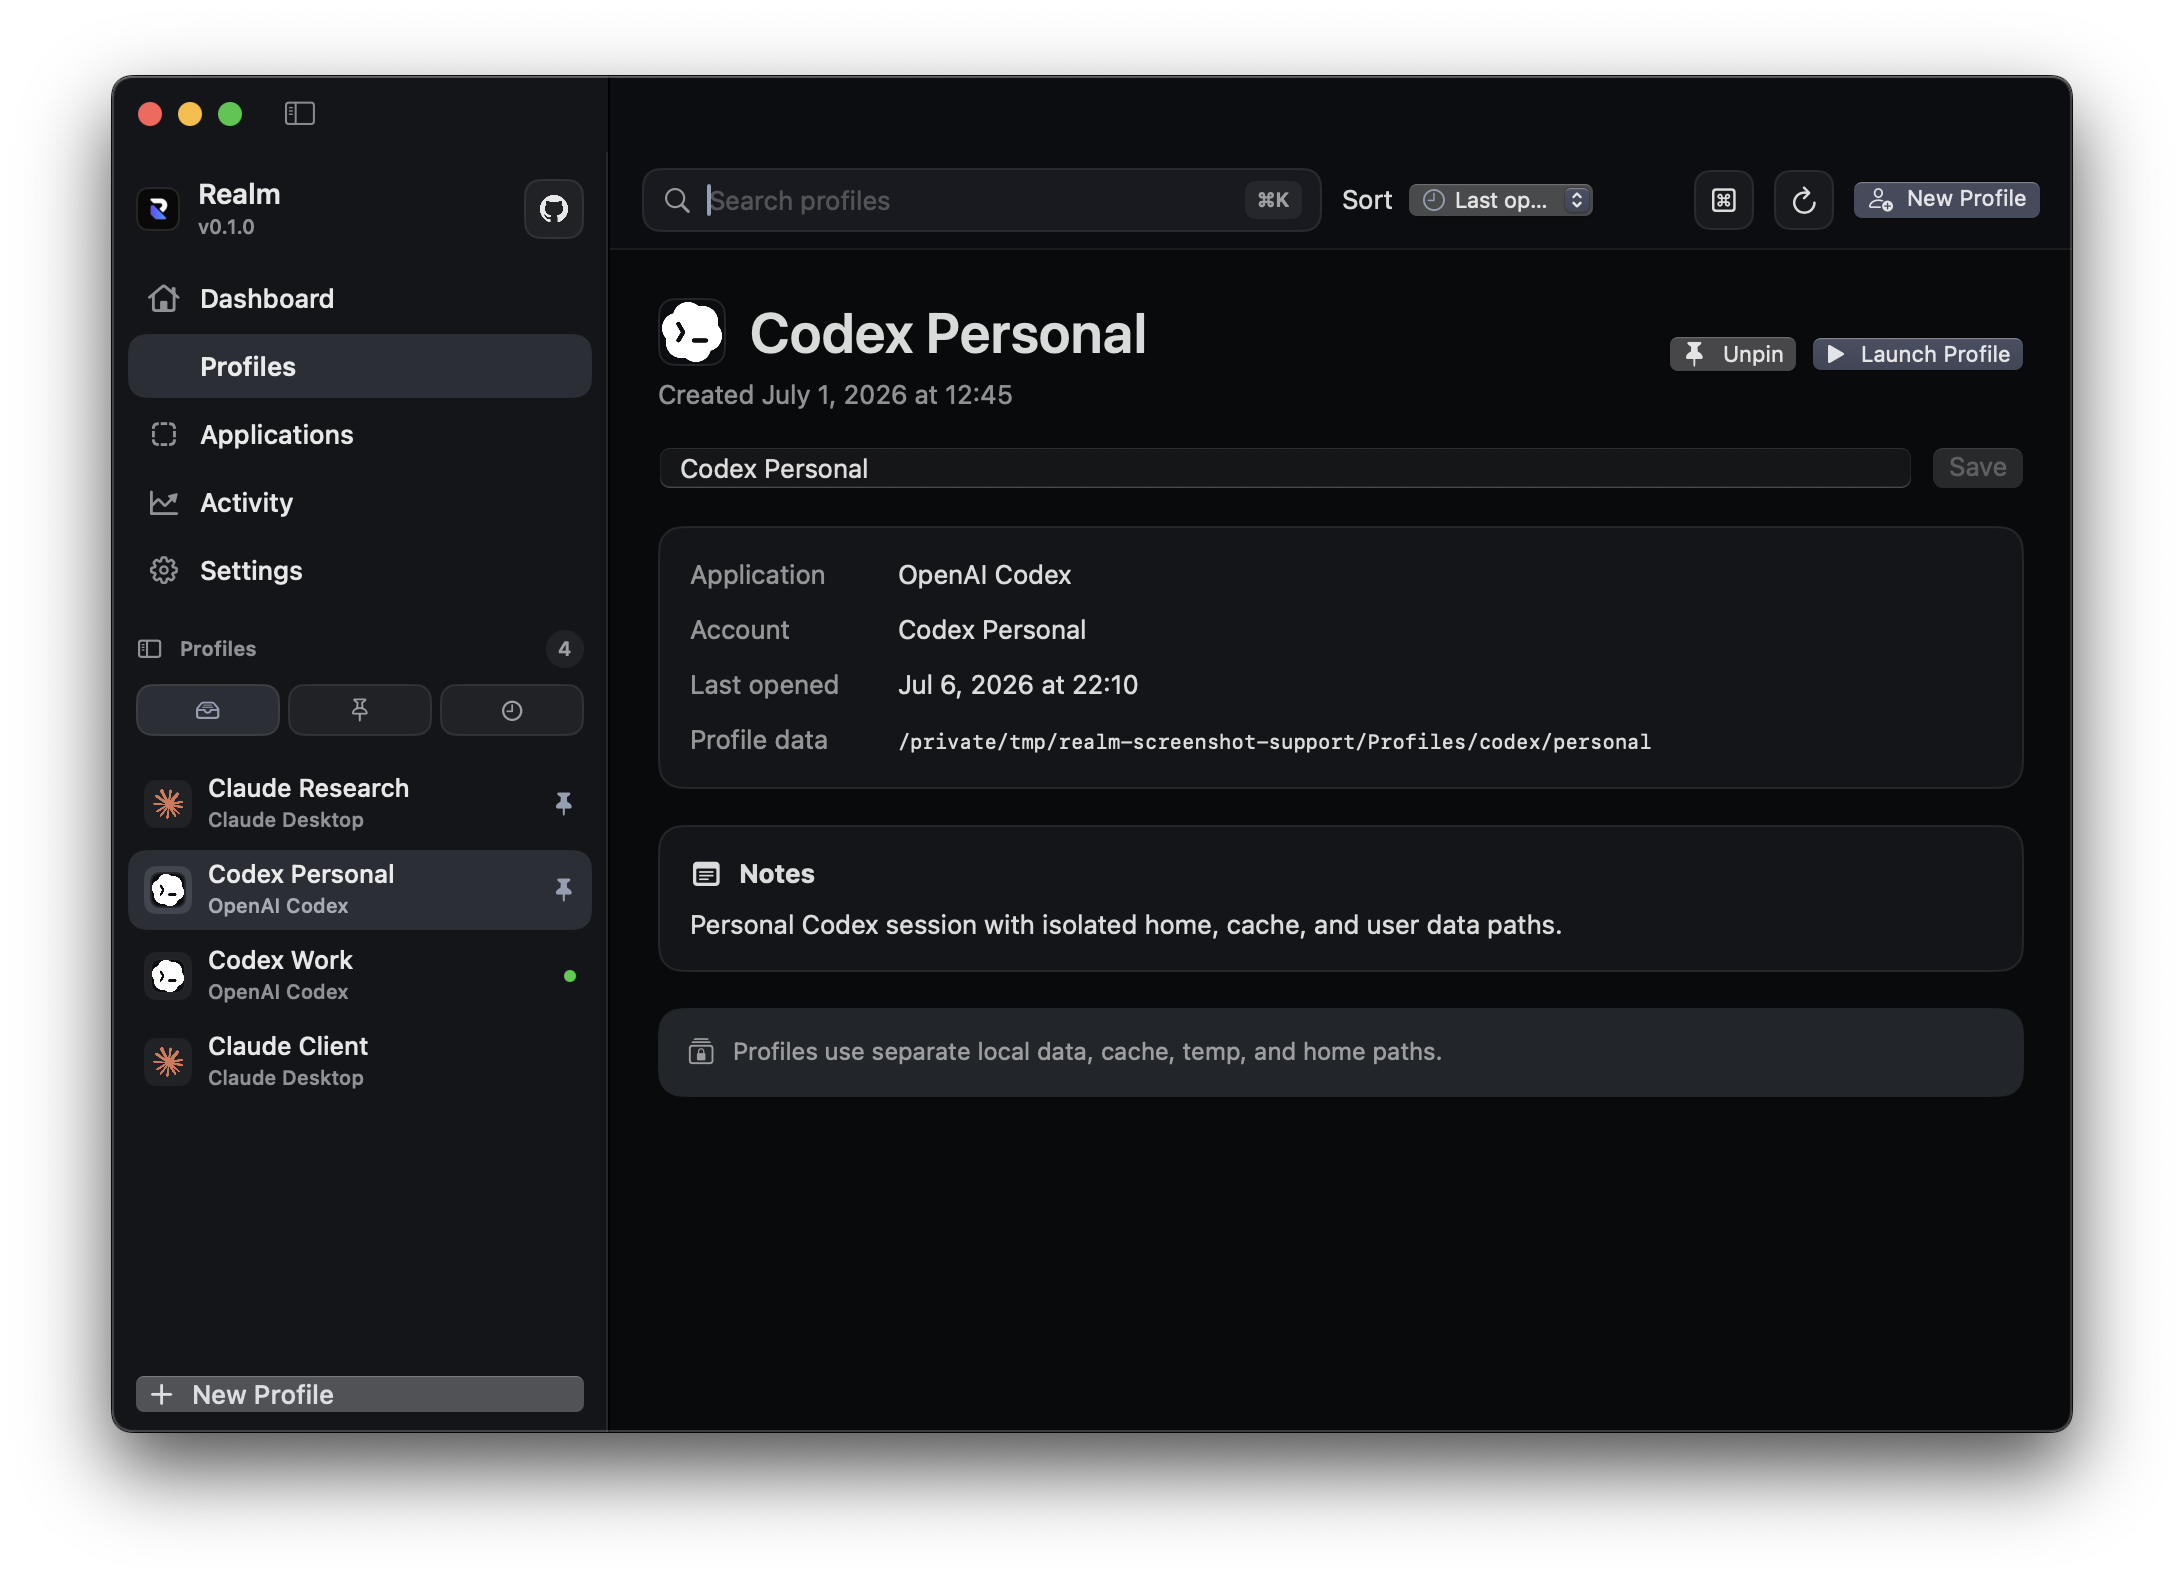
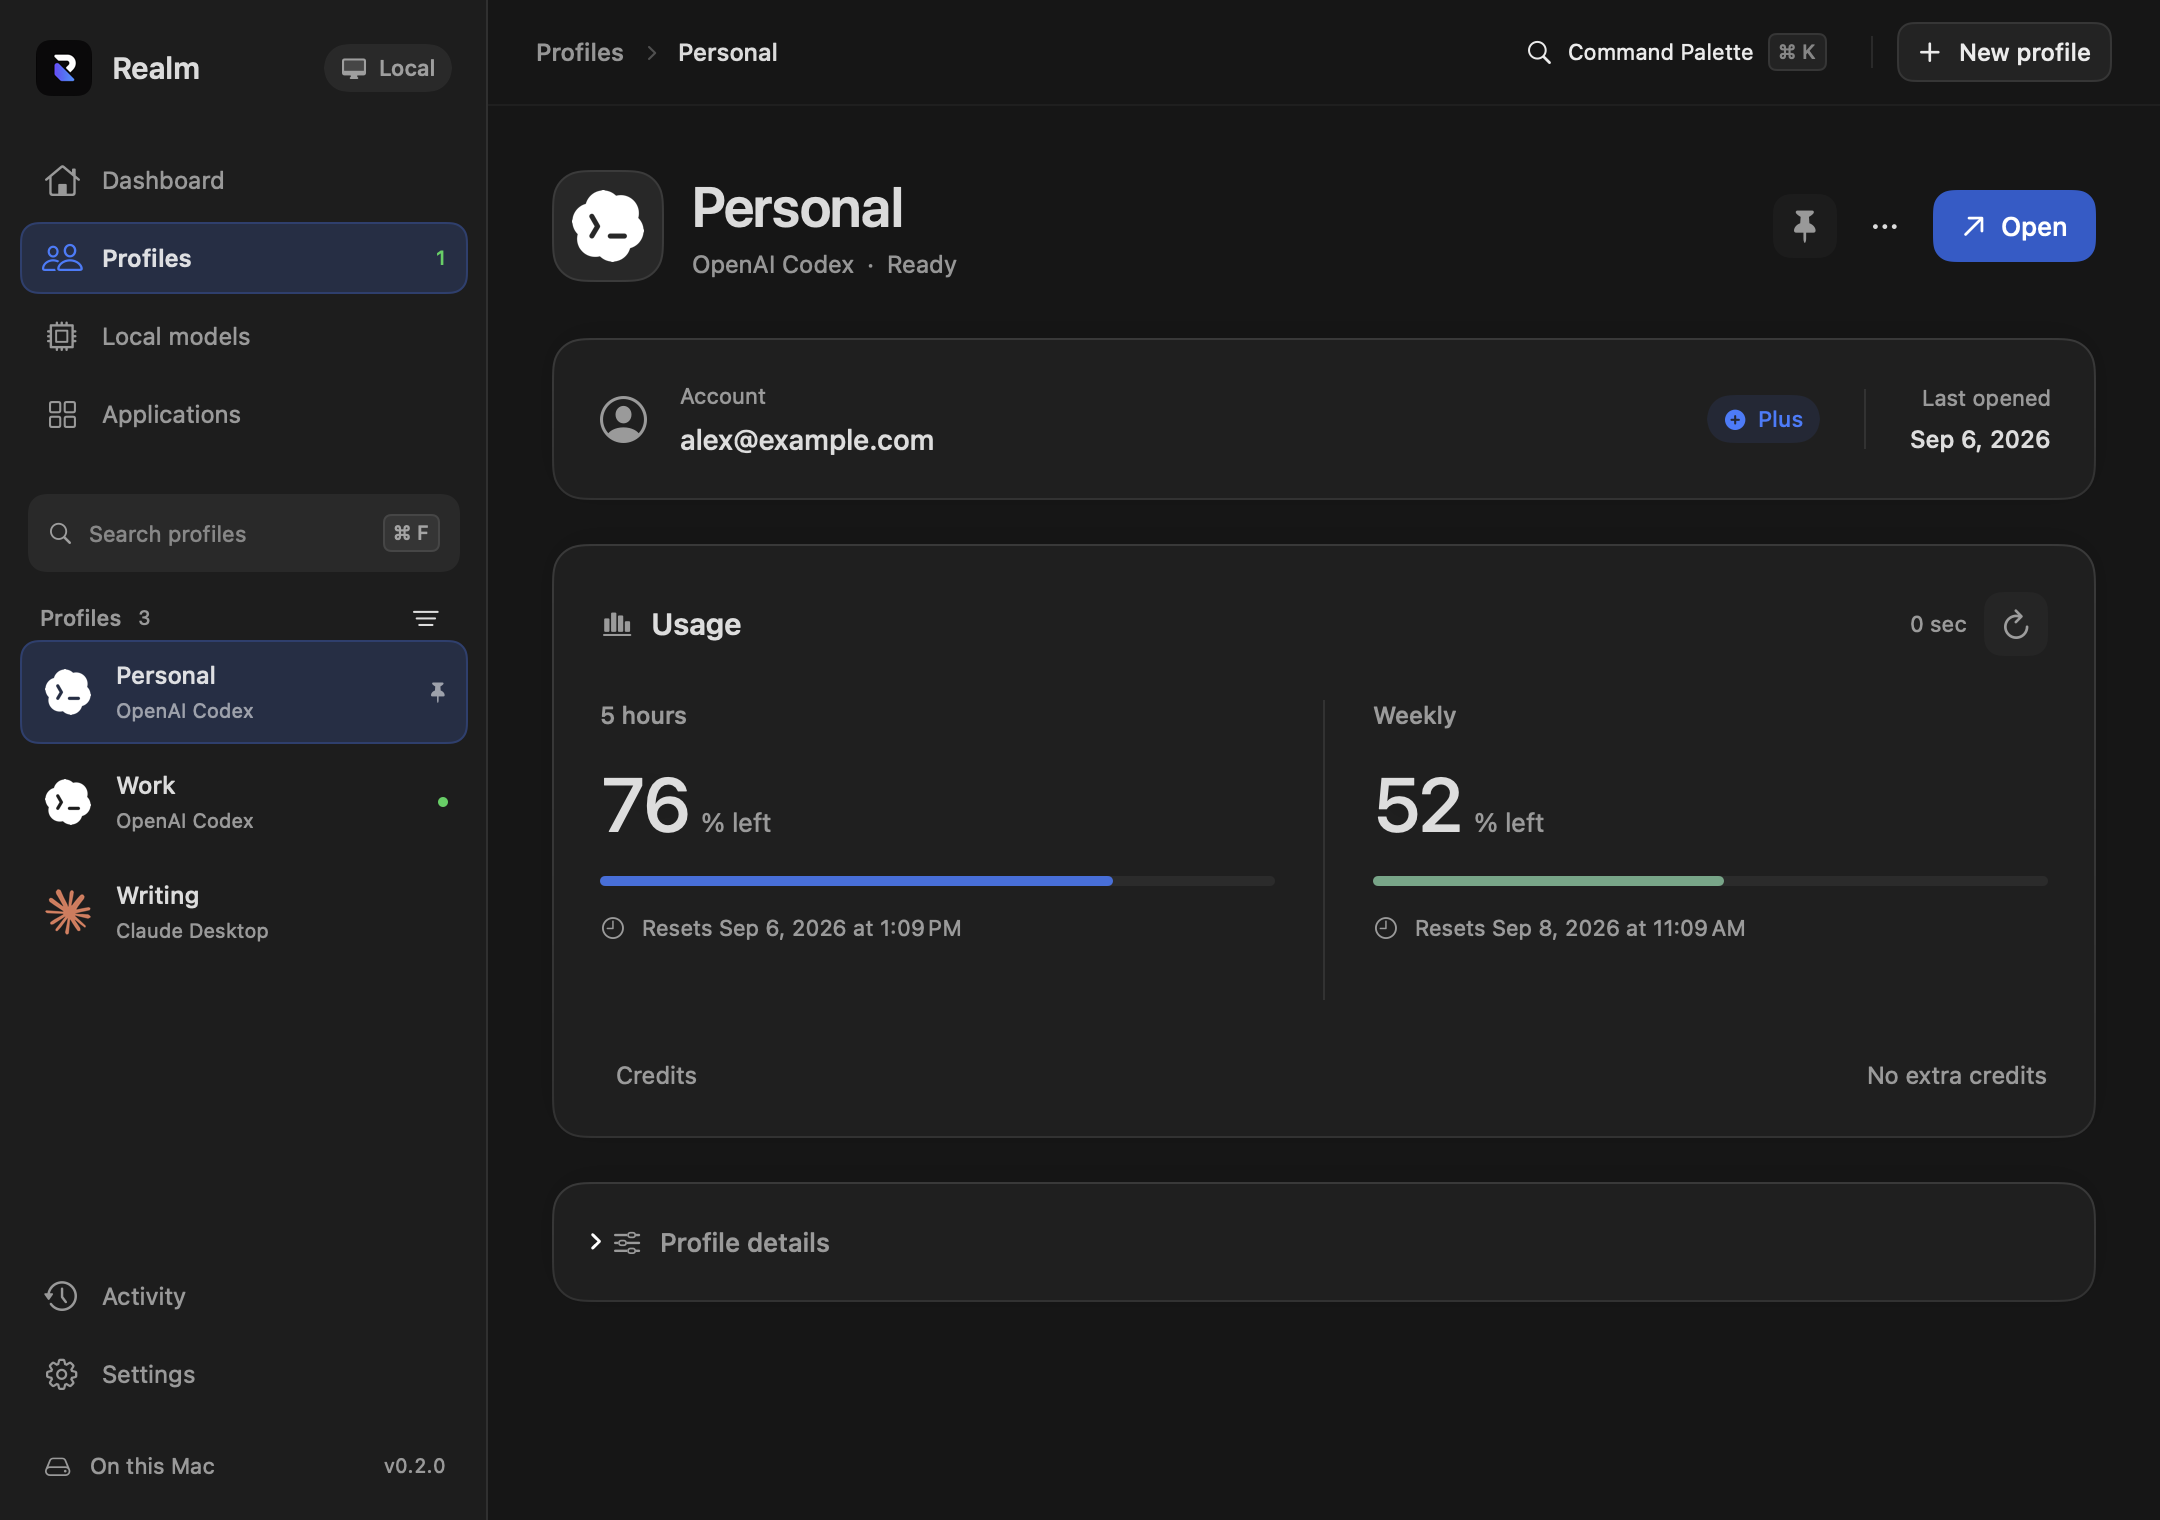
Present Realm 0.2.0 with refreshed product page and screenshots

diff --git a/README.md b/README.md
@@ -1,165 +1,83 @@
 <p align="center">
-  <img src="docs/assets/realm-icon.png" width="84" alt="Realm app icon">
+  <img src="docs/assets/realm-icon.png" width="72" alt="Realm">
 </p>
 
-<h1 align="center">Realm <sub>v0.1.0</sub></h1>
-
+<h1 align="center">Realm</h1>
+<p align="center">Your accounts. One workspace.</p>
 <p align="center">
-  A native desktop workspace for keeping Codex and Claude account profiles separate, fast, and local.
+  A native Mac app for Codex, Claude, and your local models.
 </p>
-
 <p align="center">
-  <a href="https://github.com/UDPING/Realm">UDPING/Realm</a>
-  ·
-  <a href="releases/v0.1.0/macOS/Realm-macOS.dmg">macOS DMG</a>
-  ·
-  <a href="releases/v0.1.0/Windows/Realm-Windows.exe">Windows EXE</a>
+  <a href="https://github.com/UDPING/Realm/releases/download/v0.2.0/Realm-macOS.dmg"><strong>Download for macOS</strong></a>
+  &nbsp; · &nbsp;
+  <a href="https://github.com/UDPING/Realm/releases/tag/v0.2.0">What’s new in 0.2.0</a>
 </p>
+<p align="center"><sub>Apple silicon · macOS 14 or later</sub></p>
 
-<p align="center">
-  <img src="docs/screenshots/realm-dashboard.png" alt="Realm dashboard screenshot">
-</p>
+<picture>
+  <source media="(prefers-color-scheme: dark)" srcset="docs/screenshots/realm-profile.png">
+  <source media="(prefers-color-scheme: light)" srcset="docs/screenshots/realm-profile-light.png">
+  <img src="docs/screenshots/realm-profile.png" alt="Realm profile with account details, remaining Codex usage, and reset times">
+</picture>
 
-## Overview
+### A little less switching.
 
-Realm is a native desktop application for macOS and Windows that gives supported AI desktop apps a unified workspace manager. It detects installed apps, creates named profiles for different accounts, launches each profile with separate local data paths, and keeps workspace notes, tags, settings, and activity history in local JSON.
+Keep personal and work accounts in named profiles. Open the one you need, see what’s running, and pick up where you left off.
 
-Realm is designed for people who switch between multiple Claude Desktop and OpenAI Codex accounts and do not want repeated sign-out/sign-in cycles. It does not patch, modify, inject into, or replace the supported apps.
+- **Accounts at a glance.** Email, plan, remaining Codex limits, and reset times for the selected profile.
+- **Your models, together.** Browse Ollama and LM Studio libraries and chat through their local servers.
+- **Made for your Mac.** Light, Dark, or System appearance. Four accent colors. English, فارسی, and Русский.
 
-## Supported Apps
+### Local models. Familiar tools.
 
-| App | Status | Profile isolation |
-| --- | --- | --- |
-| OpenAI Codex | Detect, launch, reveal, running status | Separate home, cache, temp, user-data, logs, and crash roots |
-| Claude Desktop | Detect, launch, reveal, running status | Separate user data, cache, temp, logs, and crash roots |
+Realm discovers existing model libraries, including GGUF and LM Studio MLX models, without copying the weights. Start a provider, choose a model, and open a chat.
 
-## Screenshots
+<img src="docs/screenshots/realm-local-models.png" alt="Realm’s local-model library with Ollama and LM Studio">
 
-| Applications | Profile |
+<details>
+<summary>Explore the interface</summary>
+
+**Your workspace**
+
+<img src="docs/screenshots/realm-dashboard.png" alt="Realm dashboard with recent profiles and local providers">
+
+**Applications**
+
+<img src="docs/screenshots/realm-applications.png" alt="Applications with green Running and blue Installed status badges">
+
+**Make it yours**
+
+<img src="docs/screenshots/realm-settings.png" alt="Realm appearance settings with themes, accent colors, and language selection">
+
+Screenshots use sample accounts and usage data.
+
+</details>
+
+### Get started
+
+1. Download the [macOS installer](https://github.com/UDPING/Realm/releases/download/v0.2.0/Realm-macOS.dmg).
+2. Open it and drag **Realm** to **Applications**. Quit an older copy before replacing it.
+3. Open Realm, create a Codex or Claude profile, and sign in through that app.
+
+Codex and Claude must be installed separately. Local chat requires Ollama or LM Studio and a downloaded model. Claude usage is available in Claude’s own settings.
+
+This build is ad-hoc signed and is not Apple-notarized. macOS may require approval in **System Settings → Privacy & Security** on first launch. [Release notes and checksums](https://github.com/UDPING/Realm/releases/tag/v0.2.0) accompany every download.
+
+### Thoughtfully local
+
+Profile metadata stays in `~/Library/Application Support/Realm/`. Account sessions are separate; supported project and chat data can be shared between profiles. Realm leaves the installed Codex and Claude apps intact.
+
+Account checks contact the provider through Codex. Local-model chats use your local server. Update checks fetch releases from this repository.
+
+| Action | Shortcut |
 | --- | --- |
-| <img src="docs/screenshots/realm-applications.png" alt="Realm applications view"> | <img src="docs/screenshots/realm-profile.png" alt="Realm profile details view"> |
+| New profile | ⌘ N |
+| Find a profile | ⌘ F |
+| Command palette | ⌘ K |
+| Settings | ⌘ , |
 
-| Settings | Dashboard |
-| --- | --- |
-| <img src="docs/screenshots/realm-settings.png" alt="Realm settings view"> | <img src="docs/screenshots/realm-dashboard.png" alt="Realm dashboard view"> |
+---
 
-| macOS Installer |
-| --- |
-| <img src="docs/screenshots/realm-macos-installer.png" alt="Realm macOS installer window"> |
+[Report an issue](https://github.com/UDPING/Realm/issues) · [All releases](https://github.com/UDPING/Realm/releases) · [Earlier Windows build (0.1.0)](https://github.com/UDPING/Realm/releases/tag/v0.1.0)
 
-## Features
-
-- Native macOS app built with SwiftUI, Swift 6, Swift Concurrency, Observation, and MVVM.
-- Native Windows app built with WinUI 3, Windows App SDK, .NET 9, C#, MVVM Toolkit, and dependency injection.
-- Clean Architecture boundaries: Presentation, Application, Domain, Infrastructure, Services, Models, Utilities, and Resources.
-- Named account profiles with favorites, recent profiles, search, sort, duplication, deletion, notes, tags, and app association.
-- Local JSON persistence with atomic writes, automatic backups, and recovery from the latest valid backup.
-- Live application detection for installed, missing, running, version, install location, and last launch state.
-- Command palette with keyboard-first profile and app actions.
-- Native notifications, menus, context menus, keyboard shortcuts, and accessibility labels.
-- Dark-first Codex-inspired interface with a lighter sidebar, darker workspace canvas, native materials, compact profile rows, and clean iconography.
-- Settings for theme, accent color, language, startup behavior, workspace directory, logging, and update preferences.
-- English, Persian, and Russian interface copy.
-
-## Install
-
-### macOS
-
-Download the macOS installer:
-
-- [Realm-macOS.dmg](releases/v0.1.0/macOS/Realm-macOS.dmg)
-
-Open the DMG, drag `Realm.app` into `Applications`, then launch Realm. The DMG uses a custom Finder layout with a clean installation background.
-
-Checksums:
-
-```text
-2dc125805090651449952db03ddbda31e6a61f1d56bd7b2cc52018177897d201  Realm-macOS.dmg
-```
-
-### Windows
-
-Download the Windows installer:
-
-- [Realm-Windows.exe](releases/v0.1.0/Windows/Realm-Windows.exe)
-
-Run `Realm-Windows.exe` to install Realm into your local Programs folder and create a Start Menu shortcut. The Windows App SDK runtime is bundled with the app.
-
-Checksum:
-
-```text
-0c362cec3352b3044699f8860dab72519d65983f031a5fbb86aaedeab353f06c  Realm-Windows.exe
-```
-
-## Local Data
-
-Realm stores all data locally. There is no cloud dependency.
-
-macOS:
-
-```text
-~/Library/Application Support/Realm/
-~/Library/Logs/Realm/
-```
-
-Windows:
-
-```text
-%LOCALAPPDATA%\Realm\Data
-%LOCALAPPDATA%\Realm\Logs
-```
-
-Profile launches use isolated directories under the configured workspace directory. Existing Codex and Claude app bundles are not modified.
-
-## Keyboard Shortcuts
-
-| Action | macOS | Windows |
-| --- | --- | --- |
-| Command palette | Command+K | Ctrl+K |
-| New profile | Command+N | Ctrl+N |
-| Search | Command+F | Ctrl+F |
-| Settings | Command+, | Ctrl+, |
-| Delete profile | Command+Delete | Delete |
-| Pin profile | Command+Shift+F | Ctrl+Shift+F |
-
-## Source Availability
-
-The public repository is used for the product README, screenshots, design documentation, and release artifacts. Application source code is private for this release and is not pushed here.
-
-## Architecture
-
-Realm keeps platform UI native while preserving the same product architecture on macOS and Windows.
-
-```text
-Presentation    Native views, view models, reusable components, commands
-Application     Use cases and orchestration
-Domain          Entities, value objects, repository contracts
-Infrastructure  JSON persistence, logging, system app detection, launch adapters
-Services        Dependency composition and platform services
-Models          UI-facing models
-Utilities       Focused helpers and formatters
-Resources       Assets, localized copy, app icons, design tokens
-```
-
-Design and architecture references:
-
-- [Shared design system](Shared/DesignSystem.md)
-- [Shared architecture](Shared/Architecture.md)
-
-## Language Notes
-
-### English
-
-Realm keeps each Codex or Claude account in a named local profile so sessions, cache, logs, and workspace notes stay separate.
-
-### فارسی
-
-Realm برای هر حساب Codex یا Claude یک پروفایل محلی جدا میسازد تا نشستها، کش، لاگها و یادداشتهای کاری با هم تداخل نداشته باشند.
-
-### Русский
-
-Realm создает отдельные локальные профили для аккаунтов Codex и Claude, чтобы сессии, кэш, журналы и заметки рабочих пространств не смешивались.
-
-## Release Policy
-
-The public repository points to release artifacts and documentation. The source is not being pushed as open source in this step.
+<sub>This repository contains downloads and product documentation. Application source is private. Realm is an independent app and is not affiliated with OpenAI, Anthropic, Ollama, or LM Studio.</sub>

diff --git a/releases/v0.2.0/RELEASE.md b/releases/v0.2.0/RELEASE.md
@@ -1,0 +1,34 @@
+# Realm 0.2.0
+
+A clearer view of your accounts, with a refined native interface and working preferences throughout.
+
+## What’s new
+
+- Live Codex account details, remaining usage, reset times, and additional limit buckets for each profile.
+- A refreshed dashboard, profile view, local-model library, and local chat, with shorter copy and consistent controls.
+- English, Persian, and Russian throughout the interface, including localized dates, counts, and right-to-left text.
+- Visible accent colors on primary actions, selections, and usage meters. Installed apps are blue; running apps are green.
+- Distinct plan badges: Free in gray, Plus in blue, and Pro in violet, with separate icons.
+- Original Codex light/dark icons and Ollama and LM Studio provider icons.
+
+## Fixed
+
+- Language, refresh interval, and startup menus now have working choices with a single selected label.
+- System appearance follows macOS after switching from Light or Dark.
+- Automatic account refresh uses its selected 30-second, 1-minute, or 5-minute interval independently of app scans. Changes apply without a restart.
+- Startup can restore the last selected profile or open the profile list. Opening the list preserves the saved profile.
+- Profile switching ignores late account responses; duplicate launch clicks are guarded; filtered model selection and command-palette keyboard navigation are corrected.
+
+## Install
+
+**macOS 14 or later · Apple silicon**
+
+Download `Realm-macOS.dmg`, quit Realm, and drag the new app to Applications. Existing profiles and settings are retained. This build is ad-hoc signed and is not Apple-notarized; macOS may require first-launch approval in Privacy & Security.
+
+The Windows build remains at 0.1.0 and is available in the previous release.
+
+## SHA-256
+
+```text
+4eddbabbee0cbe9d9340177c193f959ea337401155dff863ed41ddd202dc4500  Realm-macOS.dmg
+```
